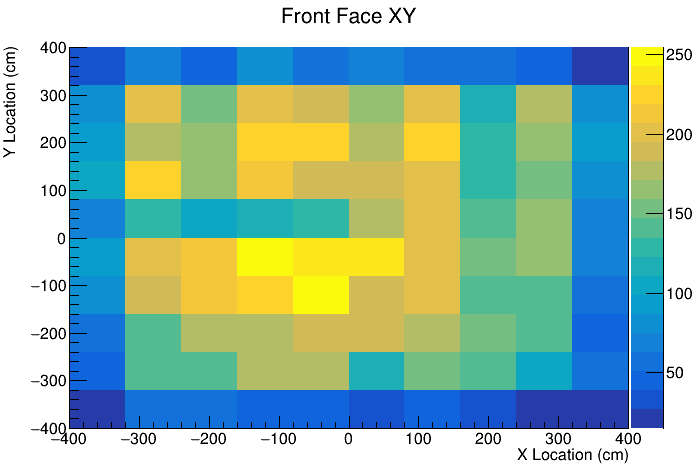
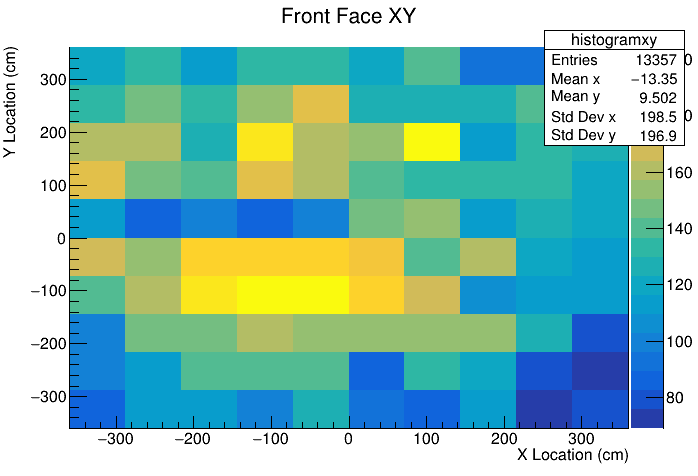
new position cuts to better represent the x,y coordinates for the detector faces.

diff --git a/CRT_Dataset2/AllDataOnlyBeam.C b/CRT_Dataset2/AllDataOnlyBeam.C
@@ -20,13 +20,6 @@ double gaussian(double *x, double *par) {
     	return par[0] * exp(-0.5 * arg * arg);
 }
 
-//double gaussian2D(double *x, double *par) {
-//	double argX = (x[0] - par[1]) / par[2];
-  //  	double argY = (x[1] - par[3]) / par[4];
-    //	return par[0] * exp(-0.5 * (argX * argX + argY * argY));
-	
-//}
-
 
 double calculate_mean(const std::vector<double>& data) {
 	double sum = 0.0;
@@ -106,29 +99,7 @@ void fit_gaussian2D(TH2F* histogram) {
     	TF2 *fit_func = new TF2("fit_func", gaussian2D, histogram->GetXaxis()->GetXmin(), histogram->GetXaxis()->GetXmax(), histogram->GetYaxis()->GetXmin(), histogram->GetYaxis()->GetXmax(), 5);
     	fit_func->SetParameters(histogram->GetMaximum(), meanX, stddevX, meanY, stddevY);
     	histogram->Fit(fit_func, "N");
-	//int nContours = 3; // Number of contour levels
-    	//std::vector<double> contourLevels(nContours);
 	
-	//gStyle->SetNumberContours(0);
-//	const int nContours = 3; // Number of contour levels
-  //  	double contours_f[nContours];
-    //	for (int i = 0; i < nContours; ++i) {
-      //  	double sigmaX = stddevX * (i + 1);
-        //	double sigmaY = stddevY * (i + 1);
-        //	contours_f[i] = fit_func->Eval(meanX + sigmaX, meanY + sigmaY);
-    //	}
-//	histogram->SetContour(nContours, contours_f);
-
-
-	//histogram->SetContour(nContours, contours_f);
-	//histogram->Draw("COLZ CONT1");	
-       // double sigma1_f = fit_func->GetParameter(0) * exp(-0.5);
-
-       // double contours_f[nContours] = {sigma1_f};
-
-        //fit_func->SetContour(nContours, contours_f);
-       
-
     	double chi2 = fit_func->GetChisquare();
     	int ndf = fit_func->GetNDF();
 
@@ -144,27 +115,27 @@ void fit_gaussian2D(TH2F* histogram) {
 void AllDataOnlyBeam() {
 	TChain chain("crtana/tree"); // Ensure "myTree" is the correct name of your TTree
 	chain.Add("/pnfs/sbnd/persistent/users/hlay/crt_comm_summer_2024/run13*_crtana.root"); // Replace with your file path pattern
-	TH1F *histogram1_f_nb = new TH1F("histogram1_f_nb", "Front Face X;No Beam", 10, -400, 400);
+	TH1F *histogram1_f_nb = new TH1F("histogram1_f_nb", "Front Face X;No Beam", 10, -360, 360);
 	histogram1_f_nb->GetXaxis()->SetTitle("X Location (cm)");
     	histogram1_f_nb->GetYaxis()->SetTitle("Number of Hits");
 
-	TH1F *histogram2_f_nb = new TH1F("histogram2_f_nb", "Front Face Y;No Beam", 10, -400, 400);
+	TH1F *histogram2_f_nb = new TH1F("histogram2_f_nb", "Front Face Y;No Beam", 10, -360, 360);
 	histogram2_f_nb->GetXaxis()->SetTitle("Y Location (cm)");
         histogram2_f_nb->GetYaxis()->SetTitle("Number of Hits");
 
-	TH2F *histogram3_f_nb = new TH2F("histogram3_f_nb", "Front Face XY;No Beam", 10, -400, 400, 10, -400, 400);
+	TH2F *histogram3_f_nb = new TH2F("histogram3_f_nb", "Front Face XY;No Beam", 10, -360, 360, 10, -360, 360);
 	histogram3_f_nb->GetXaxis()->SetTitle("X Location (cm)");
         histogram3_f_nb->GetYaxis()->SetTitle("Y Location (cm)");
 
-	TH1F *histogram4_f_tc = new TH1F("histogram4_f_tc", "Front Face X; Time Cut", 10, -400, 400);
+	TH1F *histogram4_f_tc = new TH1F("histogram4_f_tc", "Front Face X; Time Cut", 10, -360, 360);
         histogram4_f_tc->GetXaxis()->SetTitle("X Location (cm)");
         histogram4_f_tc->GetYaxis()->SetTitle("Number of Hits");
 
-	TH1F *histogram5_f_tc = new TH1F("histogram5_f_tc", "Front Face Y; Time Cut", 10, -400, 400);
+	TH1F *histogram5_f_tc = new TH1F("histogram5_f_tc", "Front Face Y; Time Cut", 10, -360, 360);
         histogram5_f_tc->GetXaxis()->SetTitle("Y Location (cm)");
         histogram5_f_tc->GetYaxis()->SetTitle("Number of Hits");
 
-	TH2F *histogram6_f_tc = new TH2F("histogram6_f_tc", "Front Face XY; Time Cut", 10, -400, 400, 10, -400, 400);
+	TH2F *histogram6_f_tc = new TH2F("histogram6_f_tc", "Front Face XY; Time Cut", 10, -360, 360, 10, -360, 360);
 	histogram6_f_tc->GetXaxis()->SetTitle("X Location (cm)");
         histogram6_f_tc->GetYaxis()->SetTitle("Y Location (cm)");
 	//histogram6_f_tc->SetContour(contours.size(), contours.data());
@@ -207,22 +178,22 @@ void AllDataOnlyBeam() {
         		}
 
         		if (1529e3 < t1 && t1 < 1534e3) {
-                		if (y > -350 && -370 < x && x < 370) {
-                    			if (-200 < z && z < -100) {
+                		//if (y > -350 && -370 < x && x < 370) {
+                    			if (-250 < z && z < -150) {
                         			histogram4_f_tc->Fill(x);
                         			histogram5_f_tc->Fill(y);
                         			histogram6_f_tc->Fill(x, y);
                    		 	}
-               		 	}
+               		 	//}
            	 	}
 			if ((0 < t1 && t1 < 1529e3) || (1534e3 < t1 && t1 < 1000e6)) {
-                		if (y > -350 && -370 < x && x < 370) {  // cut off feet of detector
-                    			if (-200 < z && z < -100) {
+                		//if (y > -350 && -370 < x && x < 370) {  // cut off feet of detector
+                    			if (-250 < z && z < -150) {
                         			histogram1_f_nb->Fill(x);
                         			histogram2_f_nb->Fill(y);
                         			histogram3_f_nb->Fill(x, y);
                     			}
-                		}
+                		//}
             		}
         	}
     	}
@@ -246,33 +217,33 @@ void AllDataOnlyBeam() {
 
 	c1_f_nb->cd();
     	histogram1_f_nb->Draw();
-	fit_gaussian1D(histogram1_f_nb);
+//	fit_gaussian1D(histogram1_f_nb);
     	c2_f_nb->cd();
     	histogram2_f_nb->Draw();
-	fit_gaussian1D(histogram2_f_nb);
+//	fit_gaussian1D(histogram2_f_nb);
     	c3_f_nb->cd();
     	histogram3_f_nb->Draw("COLZ");
-	fit_gaussian2D(histogram3_f_nb);	
+//	fit_gaussian2D(histogram3_f_nb);	
 	//histogram6_f_tc->Draw("CONT1 SAME");
 
 	c4_f_tc->cd();
 	histogram4_f_tc->Draw();
-	fit_gaussian1D(histogram4_f_tc);
+//	fit_gaussian1D(histogram4_f_tc);
 	c5_f_tc->cd();
         histogram5_f_tc->Draw();
-        fit_gaussian1D(histogram5_f_tc);
+  //      fit_gaussian1D(histogram5_f_tc);
 	c6_f_tc->cd();
         histogram6_f_tc->Draw("COLZ");
-        fit_gaussian2D(histogram6_f_tc);
+    //    fit_gaussian2D(histogram6_f_tc);
 	c7_f_ob->cd();
         histogramx->Draw();
-        fit_gaussian1D(histogramx);
+      //  fit_gaussian1D(histogramx);
 	c8_f_ob->cd();
         histogramy->Draw();
-        fit_gaussian1D(histogramy);
+        //fit_gaussian1D(histogramy);
 	c9_f_ob->cd();
         histogramxy->Draw("COLZ");
-        fit_gaussian2D(histogramxy);
+        //fit_gaussian2D(histogramxy);
 
 	c1_f_nb->SaveAs("Front_face_x_nb.png");
     	c2_f_nb->SaveAs("Front_face_y_nb.png");
